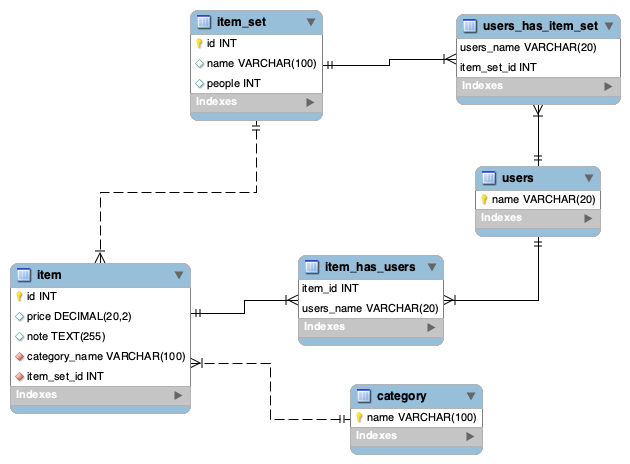
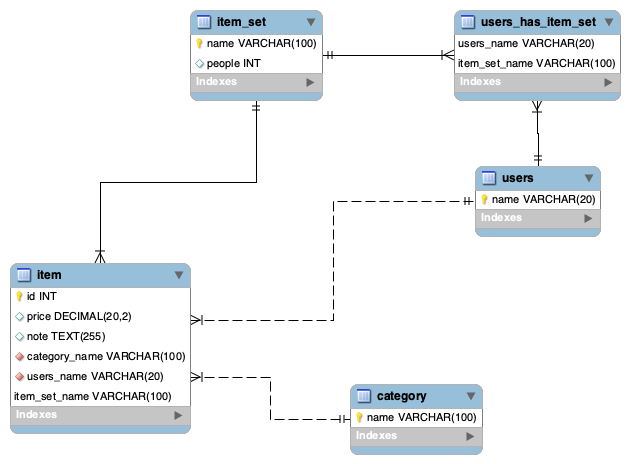
basic adding item_sets

diff --git a/style.css b/style.css
@@ -2,3 +2,7 @@ body {
     background-color: black;
     color: white;
 }
+h1 a {
+  text-decoration: none;
+  color: white;
+}

diff --git a/add.php b/add.php
@@ -1,0 +1,129 @@
+<!DOCTYPE html>
+<html lang="en">
+
+<head>
+    <meta charset="UTF-8">
+    <title>Trip calculator</title>
+    <link rel="stylesheet" href="style.css">
+</head>
+
+<body>
+    <header>
+        <h1><a href="index.php">Trip calculator</a></h1>
+    </header>
+
+    <section>
+        <table>
+            <?php
+            include "functions.php";
+            $conn = connect_db();
+            if (!isset($_GET["people"])) {
+                if (isset($_GET["error"])) {
+                    switch (filter_input(INPUT_GET, "error")) {
+                        case 1:
+                            echo "name alredy exist";
+                            break;
+                        default:
+                            echo "someting went wrong";
+                            break;
+                    }
+                }
+                echo "<form method=\"POST\" action=\"\">";
+                echo "<tr>";
+                echo "<th>";
+                echo "<label for=\"fname\">Name:</label>";
+                echo "</th>";
+                echo "<th>";
+                echo "<input type=\"text\" name=\"name\" placeholder=\"for example trip name\" value=\"\">";
+                echo "</th>";
+                echo "</tr>";
+                echo "<tr>";
+                echo "<th>";
+                echo "<label for=\"lname\">Number of people:</label>";
+                echo "</th>";
+                echo "<th>";
+                echo "<input type=\"number\" min=\"1\" name=\"people\" value=\"1\">";
+                echo "</th>";
+                echo "</tr>";
+                echo "<tr>";
+                echo "<th>";
+                echo "</th>";
+                echo "<th>";
+                echo "<input type=\"submit\" name=\"submit\" value=\"Submit\">";
+                echo "</th>";
+                echo "</tr>";
+                echo "</form>";
+
+                if (isset($_POST["submit"])) {
+                    $row = select($conn, "SELECT * FROM `item_set` WHERE `name` = \"" . filter_input(INPUT_POST, "name") . "\"");
+                    if (!isset($row[0])) {
+                        $sql = "INSERT INTO `item_set`(`name`, `people`) VALUES ('" . filter_input(INPUT_POST, "name") . "','" . filter_input(INPUT_POST, "people") . "')";
+                        insert($conn, $sql);
+                        header("Location: add.php?people=" . filter_input(INPUT_POST, "people") . "&name=" . filter_input(INPUT_POST, "name"));
+                    } else {
+                        header("Location: add.php?error=1");
+                    }
+                }
+            } else {
+                echo "<form method=\"POST\" action=\"\">";
+                $i = 0;
+                while ($i < filter_input(INPUT_GET, "people")) {
+                    echo "<tr>";
+                    echo "<th>";
+                    echo "name of person number " . $i + 1;
+                    echo "</th>";
+                    echo "<th>";
+                    echo "<input type=\"text\" name=\"people[" . $i . "]\" value=\"Honza\">";
+                    echo "</th>";
+                    echo "</tr>";
+                    $i++;
+                }
+                echo "</tr>";
+                echo "<tr>";
+                echo "<th>";
+                echo "</th>";
+                echo "<th>";
+                echo "<input type=\"submit\" name=\"submit\" value=\"Submit\">";
+                echo "</th>";
+                echo "</tr>";
+                echo "</form>";
+
+                if (isset($_POST["submit"])) {
+                    $i = 0;
+
+                    if (count(array_unique($_POST["people"])) < count($_POST["people"])) {
+                        // Array has duplicates
+                        echo "Names need to be unique between each other";
+                    } else {
+                        foreach ($_POST["people"] as $people) {
+                            $people = ucfirst(strtolower($people));
+
+                            $sql = "SELECT `name` FROM `users` WHERE `name` = \"" . $people . "\"";
+                            $rows = select($conn, $sql);
+                            if (!isset($rows[0])) {
+                                $sql = "INSERT INTO `users`(`name`) VALUES ('" . $people . "')";
+                                insert($conn, $sql);
+                            }
+
+
+                            $sql = "SELECT `users_name`, `item_set_name` FROM `users_has_item_set` WHERE `users_name` = \"" . $people . "\" AND `item_set_name` = \"" . filter_input(INPUT_GET, "name") . "\"";
+                            $rows = select($conn, $sql);
+                            if (!isset($rows[0])) {
+                                $sql = "INSERT INTO `users_has_item_set`(`users_name`, `item_set_name`) VALUES ('" . $people . "','" . filter_input(INPUT_GET, "name") . "')";
+                                insert($conn, $sql);
+                            }
+                        }
+                        header("Location: view.php?name=" . filter_input(INPUT_GET, "name"));
+                    }
+                }
+            }
+            ?>
+        </table>
+    </section>
+
+    <footer>
+        2O21
+    </footer>
+
+</html>
+<?php

diff --git a/view.php b/view.php
@@ -1,1 +1,40 @@
+<!DOCTYPE html>
+<html lang="en">
+
+<head>
+    <meta charset="UTF-8">
+    <title>Trip calculator</title>
+    <link rel="stylesheet" href="style.css">
+</head>
+
+<body>
+    <header>
+        <h1><a href="index.php">Trip calculator</a></h1>
+    </header>
+
+    <aside>
+        People: <br>
+        <?php
+        include "functions.php";
+        $conn = connect_db();
+        $sql = "SELECT `users`.`name` FROM `users`, `users_has_item_set`, `item_set` WHERE `users_has_item_set`.`users_name` = `users`.`name` AND `item_set`.`name` = \"" . filter_input(INPUT_GET, "name") . "\"";
+        $rows = select($conn, $sql);
+        foreach ($rows as $row) {
+            echo $row["name"];
+            echo "<br>";
+        }
+        ?>
+    </aside>
+
+    <section>
+        chart atd
+        <?php
+        ?>
+    </section>
+
+    <footer>
+        2O21
+    </footer>
+
+</html>
 <?php

diff --git a/index.php b/index.php
@@ -9,7 +9,7 @@
 
 <body>
     <header>
-        <h1>Trip calculator</h1>
+        <h1><a href="index.php">Trip calculator</a></h1>
     </header>
 
     <aside>
@@ -21,7 +21,7 @@
     </section>
 
     <footer>
-        2O21 (c)
+        2O21
     </footer>
 </body>
 

diff --git a/functions.php b/functions.php
@@ -50,3 +50,11 @@ function select($conn, $sql)
 
     return $select;
 }
+
+function insert($conn, $sql)
+{
+    $sql = $conn->prepare($sql);
+    $sql->execute();
+
+    return $conn->lastInsertId();
+}
